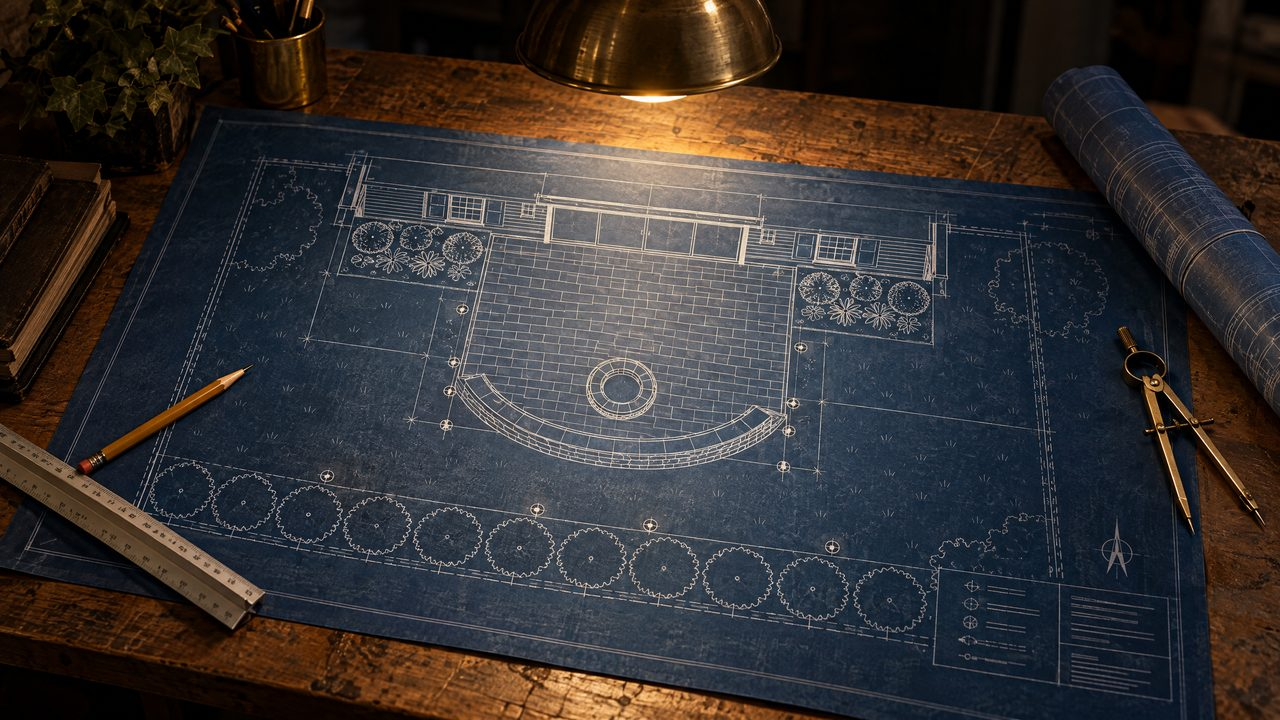
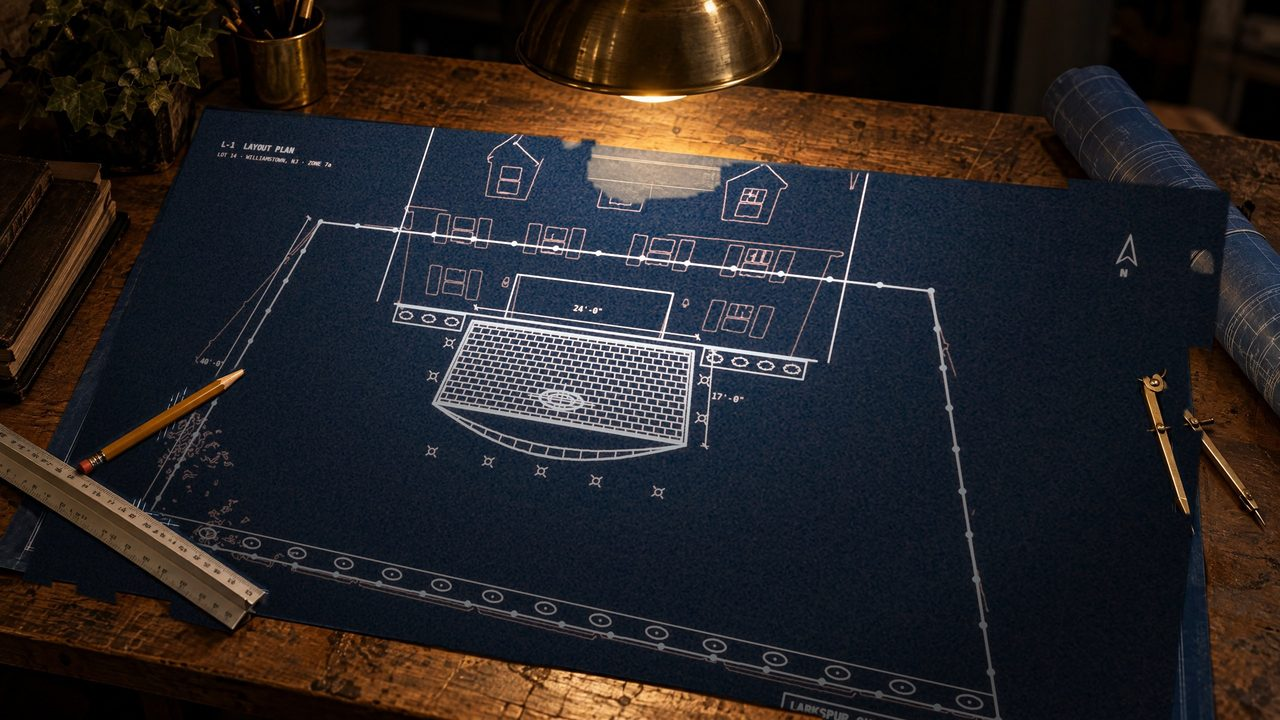
Larkspur demo: blueprint sheet un-warps straight into the aerial frame
Claude-Session: https://claude.ai/code/session_01YUM58pQzzCwZw7wn9K1kUG

diff --git a/larkspur-outdoor/index.html b/larkspur-outdoor/index.html
@@ -64,6 +64,7 @@ a{color:inherit}
 .hero-view{position:sticky;top:0;height:100vh;height:100svh;display:grid;align-content:end;padding-bottom:max(30px,env(safe-area-inset-bottom,0px));pointer-events:none;overflow:hidden}
 .hero-photos{position:absolute;inset:0;overflow:hidden;pointer-events:none}
 .hero-photos img,#seq{position:absolute;inset:0;width:100%;height:100%;object-fit:cover;max-width:none;will-change:transform,opacity}
+#bp-img{transform-origin:0 0}
 .hero-photos img{opacity:1}
 #seq{opacity:0}
 .hero-photos::after{content:"";position:absolute;inset:0;background:linear-gradient(to top,rgba(10,14,12,.82) 0%,rgba(10,14,12,.12) 42%,rgba(10,14,12,0) 70%),linear-gradient(to bottom,rgba(10,14,12,.5) 0%,rgba(10,14,12,0) 26%),linear-gradient(to right,rgba(10,14,12,.45) 0%,rgba(10,14,12,0) 50%);opacity:var(--scrim,0)}
@@ -163,7 +164,6 @@ a{color:inherit}
   <div class="hero-view gutter">
     <div class="hero-photos" aria-hidden="true">
       <img src="renders/blueprint-desk.jpg" srcset="renders/blueprint-desk-m.jpg 1280w, renders/blueprint-desk.jpg 2560w" sizes="100vw" alt="" id="bp-img">
-      <img src="renders/blueprint-plan.jpg" srcset="renders/blueprint-plan-m.jpg 1280w, renders/blueprint-plan.jpg 2560w" sizes="100vw" alt="" id="plan-img">
       <canvas id="seq"></canvas>
     </div>
     <div class="cap on" data-i="0"><span class="eyebrow mono"><b>01 / 08</b><i></i>The plan</span><h1>From bare lot<br><em>to backyard.</em></h1><p>Every Larkspur patio starts on paper, drawn for your yard, your grade and your evenings.</p></div>
@@ -293,14 +293,14 @@ a{color:inherit}
 
   // ================= hero: blueprint, then a scroll-scrubbed build film =================
   var heroEl=document.getElementById('build'), caps=Array.prototype.slice.call(document.querySelectorAll('.cap')), ring=document.getElementById('ring'), ringLbl=document.getElementById('ring-lbl');
-  var FRAMES=289, FPS=16, DUR=18.04, D0=0.06, D1=0.10, V0=0.15, V1=0.21, V2=0.955; // desk until D0, desk->plan D0..D1, plan holds, plan->film V0..V1, film V1..V2, hold after
+  var FRAMES=289, FPS=16, DUR=18.04, D0=0.03, D1=0.13, V0=0.11, V1=0.165, V2=0.955; // desk hold until D0, sheet un-warps to fill the frame D0..D1, film dissolves in V0..V1, film V1..V2, hold after
   function tp(t){ return V1+(t/DUR)*(V2-V1); }
-  var STAGES=[[0,0.17],[0.17,tp(3.0)],[tp(3.0),tp(7.0)],[tp(7.0),tp(9.5)],[tp(9.5),tp(11.6)],[tp(11.6),tp(13.0)],[tp(13.0),tp(15.0)],[tp(15.0),1.0]];
+  var STAGES=[[0,0.16],[0.16,tp(3.0)],[tp(3.0),tp(7.0)],[tp(7.0),tp(9.5)],[tp(9.5),tp(11.6)],[tp(11.6),tp(13.0)],[tp(13.0),tp(15.0)],[tp(15.0),1.0]];
   var LBL=['Blueprint','Staked','Excavation & base','Pavers','Seat wall & fire','Plantings','Lawn','Lights on'];
   function lin(p,a,b){ return Math.max(0,Math.min(1,(p-a)/(b-a))); }
   function dwell(p){ for (var i=0;i<STAGES.length;i++){ var a=STAGES[i][0], b=STAGES[i][1]; if (p>=a && p<b){ var u=(p-a)/(b-a); var m=Math.min(1,u/0.85); return a+(b-a)*(0.88*m*m*(3-2*m) + 0.12*u); } } return p; }
   var mode='hero', activeSec='build', heroP=0, curStage=-1;
-  var bpImg=document.getElementById('bp-img'), planImg=document.getElementById('plan-img'), seq=document.getElementById('seq'), ctx=seq.getContext('2d'), heroPhotos=document.querySelector('.hero-photos');
+  var bpImg=document.getElementById('bp-img'), seq=document.getElementById('seq'), ctx=seq.getContext('2d'), heroPhotos=document.querySelector('.hero-photos');
   var imgs=new Array(FRAMES), loaded=0, targetF=0, curF=0, drawnF=-1, needDraw=true;
   function src(i){ return 'frames/'+('000'+(i+1)).slice(-4)+'.jpg'; }
   function load(i){ if (imgs[i]) return; var im=new Image(); im.decoding='async'; im.onload=function(){ loaded++; needDraw=true; }; im.src=src(i); imgs[i]=im; }
@@ -318,11 +318,36 @@ a{color:inherit}
   }
   requestAnimationFrame(loop);
   window.addEventListener('resize', function(){ sizeCanvas(); needDraw=true; });
+  // perspective un-warp: maps the sheet's four corners (fractions of the desk image) to the frame corners
+  var SHEET=[[0.1602,0.1514],[0.9609,0.2653],[0.9012,1.2028],[0.0168,0.8056]];
+  function homography(src,dst){ // 4-point DLT: solve the 8x8 system A h = b with Gauss-Jordan, h9 = 1
+    var A=[], B=[];
+    for (var i=0;i<4;i++){ var x=src[i][0],y=src[i][1],X=dst[i][0],Y=dst[i][1];
+      A.push([x,y,1,0,0,0,-X*x,-X*y]); B.push(X);
+      A.push([0,0,0,x,y,1,-Y*x,-Y*y]); B.push(Y); }
+    for (var c=0;c<8;c++){
+      var piv=c; for (var r=c+1;r<8;r++) if (Math.abs(A[r][c])>Math.abs(A[piv][c])) piv=r;
+      var tr=A[c]; A[c]=A[piv]; A[piv]=tr; var tb=B[c]; B[c]=B[piv]; B[piv]=tb;
+      var d=A[c][c]; for (var k=0;k<8;k++) A[c][k]/=d; B[c]/=d;
+      for (var r2=0;r2<8;r2++){ if (r2===c) continue; var f=A[r2][c]; if (!f) continue; for (var k2=0;k2<8;k2++) A[r2][k2]-=f*A[c][k2]; B[r2]-=f*B[c]; }
+    }
+    return [B[0],B[1],B[2],B[3],B[4],B[5],B[6],B[7],1];
+  }
+  function deskMatrix(t){ // t: 0 = photo as is, 1 = sheet fills the viewport
+    var w=heroPhotos.clientWidth, h=heroPhotos.clientHeight;
+    // the desk image is object-fit:cover; compute its drawn rect
+    var iw=2560, ih=1440, sc=Math.max(w/iw,h/ih), dw=iw*sc, dh=ih*sc, ox=(w-dw)/2, oy=(h-dh)/2;
+    var src=SHEET.map(function(c){ return [ox+c[0]*dw, oy+c[1]*dh]; });
+    var dst=[[0,0],[w,0],[w,h],[0,h]];
+    var mix=src.map(function(c,i){ return [c[0]+(dst[i][0]-c[0])*t, c[1]+(dst[i][1]-c[1])*t]; });
+    var H=homography(src,mix);
+    // CSS matrix3d (column-major) from 3x3 homography
+    return 'matrix3d('+[H[0],H[3],0,H[6], H[1],H[4],0,H[7], 0,0,1,0, H[2],H[5],0,H[8]].map(function(v){ return v.toFixed(6); }).join(',')+')';
+  }
   function applyHero(p){
     heroP=p;
-    // desk: push in toward the sheet, then the sheet becomes the full-frame plan
-    var bl=lin(p,0,D1); bpImg.style.transform='scale('+(1.0+0.45*bl).toFixed(4)+') translate(0,'+(bl*4).toFixed(2)+'%)'; bpImg.style.opacity=1;
-    var pf=lin(p,D0,D1); planImg.style.opacity=pf; planImg.style.transform='scale('+(1.06-0.06*lin(p,D0,V1)).toFixed(4)+')';
+    // desk: the camera drops onto the sheet until the drawing fills the frame in the film's exact perspective
+    var u=lin(p,D0,D1); var e=u<.5?2*u*u:1-Math.pow(-2*u+2,2)/2; bpImg.style.transform=deskMatrix(e); bpImg.style.opacity=1;
     var fade=lin(p,V0,V1); seq.style.opacity=fade;
     var q=dwell(p); targetF=Math.max(0,Math.min(FRAMES-1, (lin(q,V1,V2))*(FRAMES-1)));
     heroPhotos.style.setProperty('--scrim', 0.45+0.55*fade);
